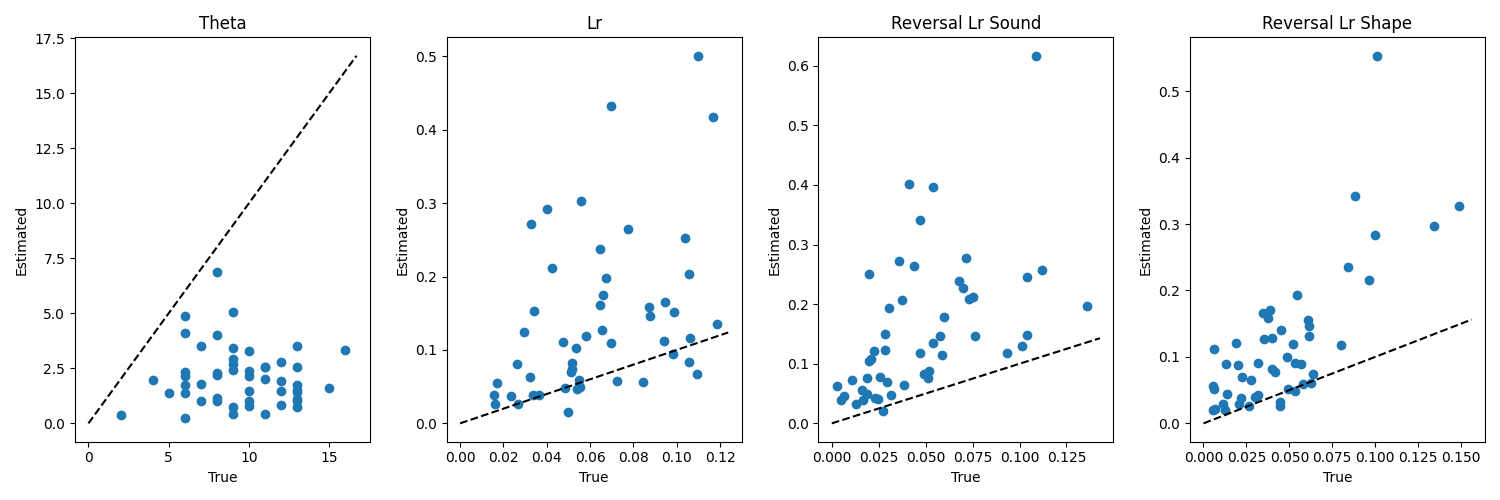
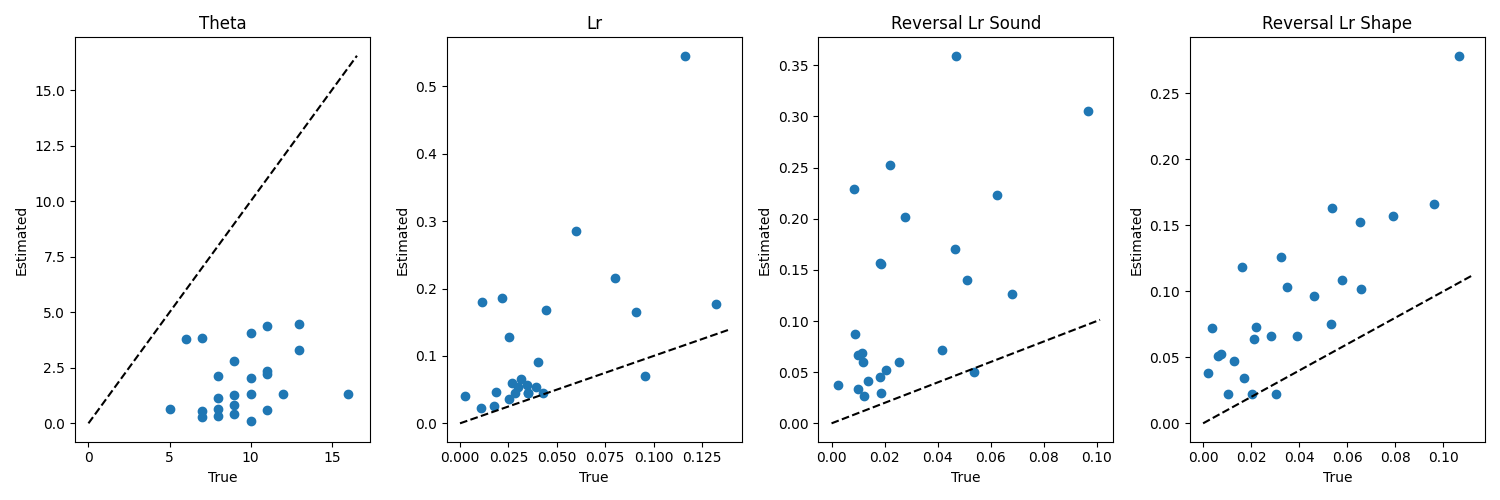
updates

diff --git a/parameter_recovery_multi_lr/subject_parameter_recovery.py b/parameter_recovery_multi_lr/subject_parameter_recovery.py
@@ -81,9 +81,9 @@ def test_parameter_recovery(n_subjects, model_spec, savepath = None):
         theta = np.random.poisson(10)
 
         # lr and rlr should be between 0 and 1 with more values closer to 0
-        lr = np.random.beta(3, 40)
-        lr_r_sound = np.random.beta(2, 40)
-        lr_r_shape = np.random.beta(2, 40)
+        lr = np.random.beta(2, 50)
+        lr_r_sound = np.random.beta(2, 50)
+        lr_r_shape = np.random.beta(2, 50)
 
         # generate synthetic data
         _, stimuli, response, hit = experimental_loop(
@@ -141,7 +141,7 @@ def main():
     with open(path.parent / "single_subject_multi_lr.stan") as f:
         model_spec = f.read()
     
-    n_subjects = 50
+    n_subjects = 25
 
     test_parameter_recovery(n_subjects, model_spec, savepath = outpath / "subject_parameter_recovery_sound_shape_lr.png")
 
